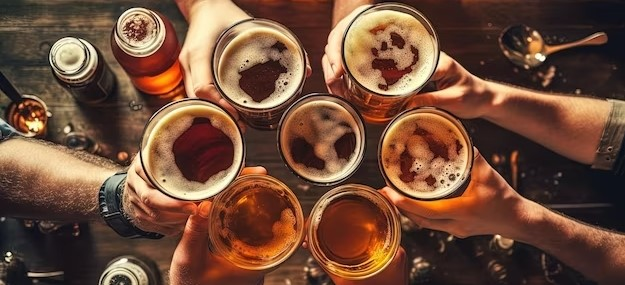
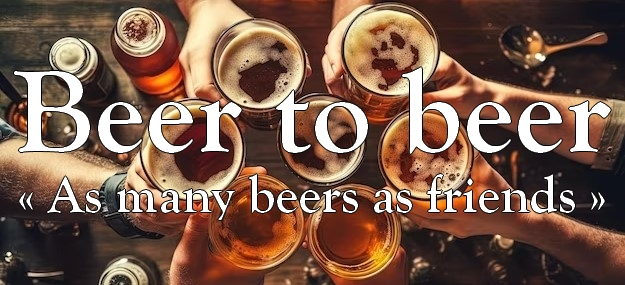
Ajustements sur la page d'accueil

diff --git a/index.html b/index.html
@@ -9,7 +9,7 @@
 	</head>
 
 	<body>
-		<img src="images/logo-removebg-preview.png">
+		<a href="index.html"><img src="images/logo-removebg-preview.png"></a>
 		<nav>
 			<ul>
 				<li><a href="index.html">Home</a></li>
@@ -23,8 +23,7 @@
 
 			<div class="home">
 				<img src="images/home-main-img.jpg">
-				<p>As many beers as friends</p>
-
+				<!-- ! <p>« As many beers as friends »</p> On peut enlever le slogan, je l'ai mis sur l'image ! -->
 			</div>
 
 			<div class="bloc">
@@ -42,33 +41,33 @@
 			
 			<section class="beer-section">
 
-			<div class="bloc">
-				<img src="images/blackout.jpg" class="img">
-				<div class="bloc-txt">
-					<a href="products.html#blackout-stout"> <h1 class="beers">Blackout Stout</h1> </a>
+				<div class="bloc">
+					<img src="images/blackout.jpg" class="img">
+					<div class="bloc-txt">
+						<a href="products.html#blackout-stout"> <h2 class="beers">Blackout Stout</h2> </a>
+					</div>
 				</div>
-			</div>
 
-			<div class="bloc">
-				<img src="images/Today-rockymountain.jpg" class="img" >
-				<div class="bloc-txt">
-					<a href="products.html#rocky-mountain"> <h1 class="beers">Rocky Mountain</h1> </a>
+				<div class="bloc">
+					<img src="images/Today-rockymountain.jpg" class="img" >
+					<div class="bloc-txt">
+						<a href="products.html#rocky-mountain"> <h2 class="beers">Rocky Mountain</h2> </a>
+					</div>
 				</div>
-			</div>
-			
-			<div class="bloc">
-				<img src="images/tunal-rat.jpg" class="img">
-				<div class="bloc-txt">
-					<a href="products.html#tunnel-rat"> <h1 class="beers">Tunnel Rat</h1> </a>
+				
+				<div class="bloc">
+					<img src="images/tunal-rat.jpg" class="img">
+					<div class="bloc-txt">
+						<a href="products.html#tunnel-rat"> <h2 class="beers">Tunnel Rat</h2> </a>
+					</div>
 				</div>
-			</div>
 
-			<div class="bloc">
-				<img src="images/Red-Rock-Blaster.jpg" class="img">
-				<div class="bloc-txt">
-					<a href="products.html#skyrim-hydromel"> <h1 class="beers">Skyrim's Hydromel</h1> </a>
+				<div class="bloc">
+					<img src="images/Red-Rock-Blaster.jpg" class="img">
+					<div class="bloc-txt">
+						<a href="products.html#skyrim-hydromel"> <h2 class="beers">Skyrim's Hydromel</h2> </a>
+					</div>
 				</div>
-			</div>
 
 			</section>
 

diff --git a/style/index.css b/style/index.css
@@ -3,7 +3,8 @@
     flex-direction: column;
 }
 
-.home > p {  
+/*! J'ai enlevé le paragraphe qu'on trouvait dans .home parce que j'ai mis le slogan sur l'image !*/
+/*.home > p {  
     position:relative;
     display: flex;
     width: 100%;
@@ -12,8 +13,7 @@
     align-items: end;
     font-size: 4em;
     margin: 10px;
-
-}
+}*/
 
 .home > img{
     position: relative;
@@ -24,6 +24,7 @@
 .bloc {
     display: flex;
     flex-direction: row;
+    margin-top: 2em;
 }
 
 .bloc-txt{
@@ -32,6 +33,7 @@
 
 .img {
     margin: 10px;
+    margin-right: 20px;
     width: 40%;
     filter: brightness(75%);
     border-radius: 20px;
@@ -40,10 +42,10 @@
 .bloc-txt > h1 {
     font-size: 2.5em;
     font-weight: bold;
+    margin-left: 35px;
 }
 
-.bloc-txt > p{
-    margin-left: 50px;
+.bloc-txt > p {
     font-size: 1.5em;
 }
 
@@ -55,9 +57,9 @@
     display: flex;
     height: 100%;
     margin: 0;
-    justify-content: center;
+    justify-content: left;
     align-items: center;
-    font-size: 2em;
+    font-size: 1.5em;
 }
 
 .bloc-txt{

diff --git a/style/main.css b/style/main.css
@@ -15,7 +15,7 @@ main {
 	background-color: whitesmoke;
 	margin-left: 10%;
     margin-right: 10%;
-    margin-top: 5em;
+    margin-top: 2em;
     margin-bottom: 5em;
 	padding: 5%;
 }
@@ -35,7 +35,7 @@ nav{
 
 }
 
-body > img{
+body > a > img {
     position:absolute;
     width: 10%
 }
